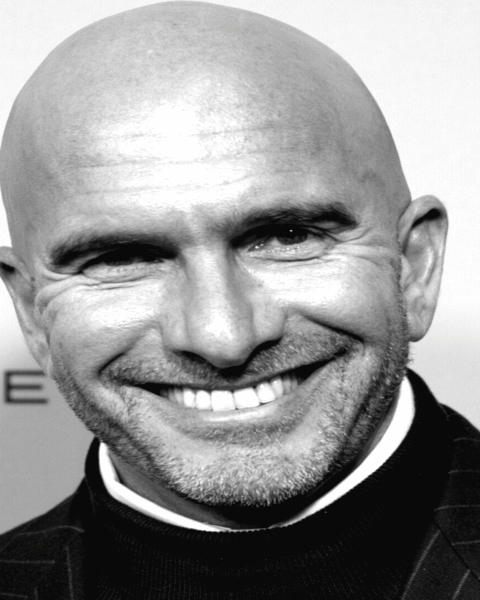
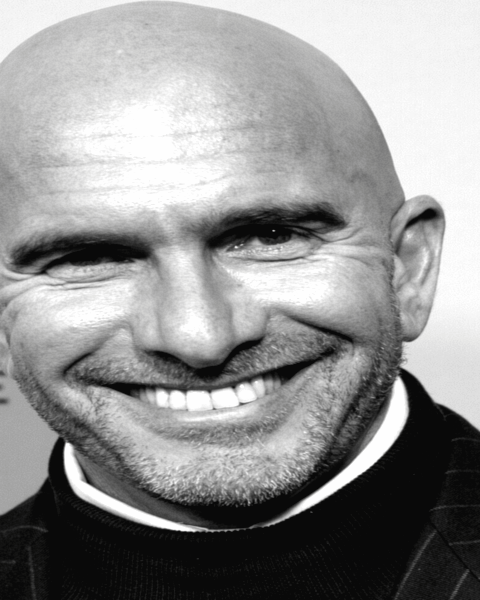
Fix UX review round 8: exit-dialog double-tap, browser back bypass
Review findings addressed (0 critical, 2 major, 1 minor):
- The exit-confirm dialog's own home-icon button stayed live (it sat
  outside the pointerEvents-blocked content view), so a second tap
  while already confirming re-armed the pause clock and burned real
  seconds off the timer on resume. requestExit() is now a no-op while
  already confirming, and the button is hidden while the dialog is up.
- On web, the browser/Android back gesture bypassed the confirm flow
  entirely (no router, nothing was listening for it) and silently
  dropped an in-progress round. GuessingScreen now pushes a guard
  history entry and routes back/popstate through the same
  requestExit() confirmation as the on-screen button.
- asi-cohen's crop still had a stray "E" from the backdrop's
  "SAPPHIRE RESERVE" logo bleeding in at the left edge; tightened the
  crop a bit further to clear it.

diff --git a/src/screens/GuessingScreen.tsx b/src/screens/GuessingScreen.tsx
@@ -1,5 +1,5 @@
 import React, { useEffect, useRef, useState } from 'react';
-import { StyleSheet, Text, View } from 'react-native';
+import { Platform, StyleSheet, Text, View } from 'react-native';
 import BackButton from '../components/BackButton';
 import BigButton from '../components/BigButton';
 import CardBack from '../components/CardBack';
@@ -62,6 +62,9 @@ export default function GuessingScreen({ mode, onFinish, onMenu }: Props) {
     mode === 'time' ? secondsLeft < TIME_LIMIT_SECONDS : questionsLeft < QUESTIONS_LIMIT;
 
   const requestExit = () => {
+    // idempotent: a second trigger while the dialog is already open (e.g. a
+    // stray browser-back event) must not re-arm the pause clock
+    if (confirmingExit) return;
     if (!roundInProgress) {
       onMenu();
       return;
@@ -80,9 +83,29 @@ export default function GuessingScreen({ mode, onFinish, onMenu }: Props) {
     setConfirmingExit(false);
   };
 
+  // on web, the browser/Android back gesture bypasses our on-screen back
+  // button entirely (no router involved), which would silently drop an
+  // in-progress round with no confirmation. Trap it with a guard history
+  // entry and route it through the same requestExit() flow.
+  const requestExitRef = useRef(requestExit);
+  requestExitRef.current = requestExit;
+
+  useEffect(() => {
+    if (Platform.OS !== 'web') return;
+    const w = globalThis as any;
+    if (!w.history?.pushState || !w.addEventListener) return;
+    w.history.pushState({ guessingGuard: true }, '');
+    const onPopState = () => {
+      w.history.pushState({ guessingGuard: true }, '');
+      requestExitRef.current();
+    };
+    w.addEventListener('popstate', onPopState);
+    return () => w.removeEventListener('popstate', onPopState);
+  }, []);
+
   return (
     <View style={styles.container}>
-      <BackButton onPress={requestExit} label="עצירת סיבוב" />
+      {!confirmingExit && <BackButton onPress={requestExit} label="עצירת סיבוב" />}
       <View pointerEvents={confirmingExit ? 'none' : 'auto'} style={styles.content}>
         <CardBack size={180} />
 
